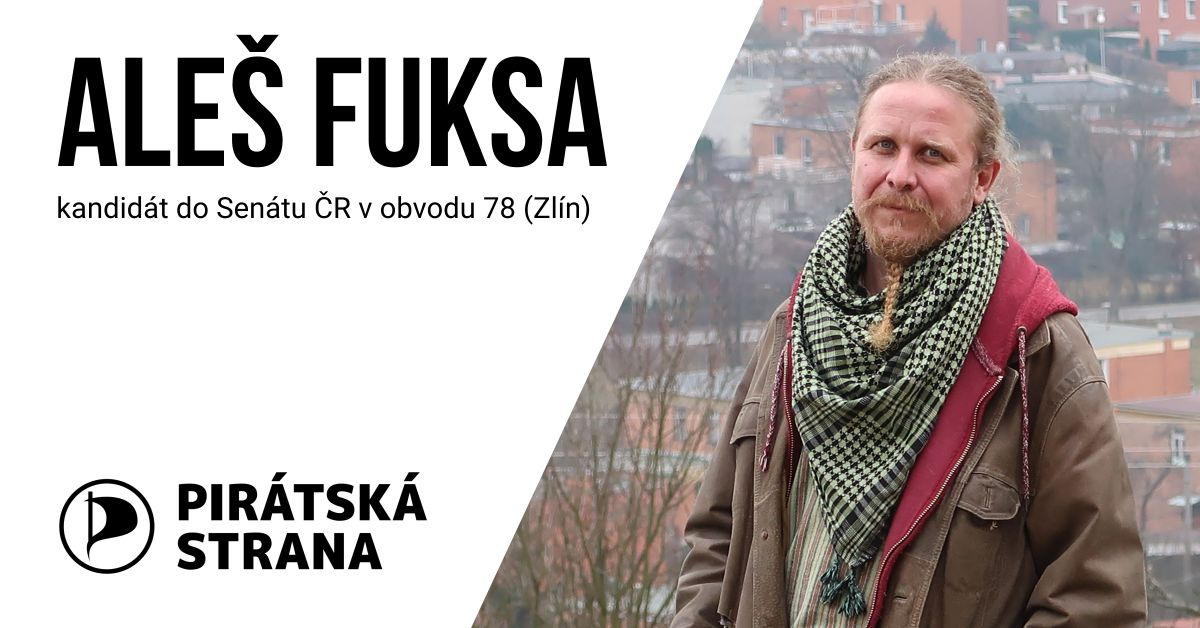
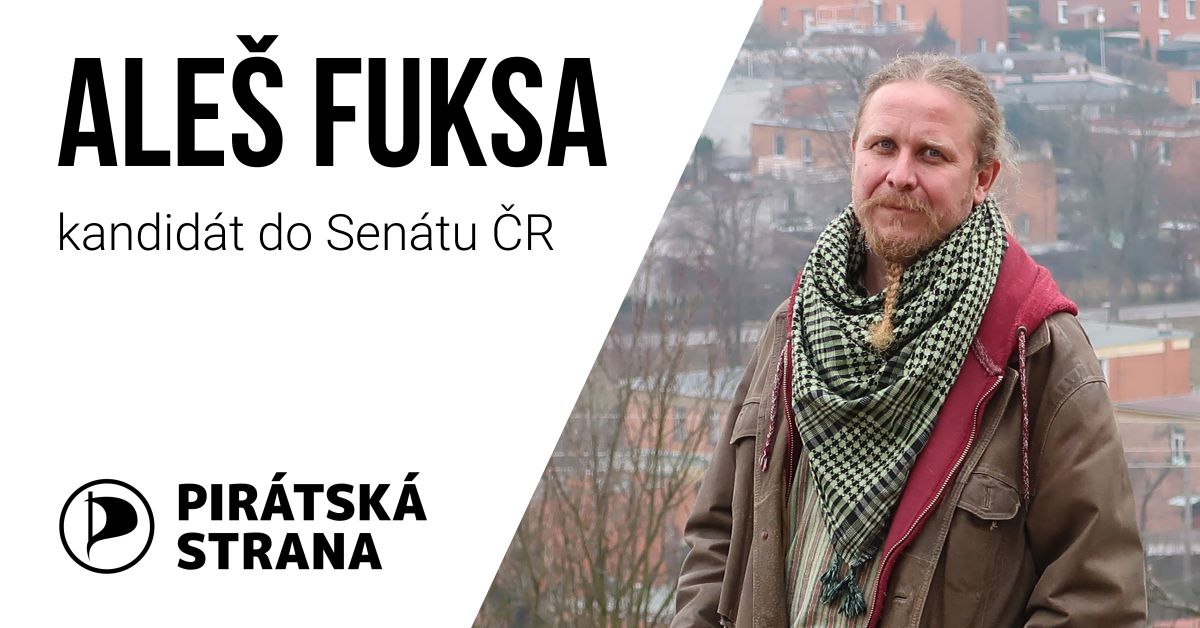
rozhovor

Changed region(s): [[0.0308, 0.3025, 0.4933, 0.4236]]

diff --git a/_posts/2018-03-30-rozhovor-s-kandidatem-alesem-fuksou.md b/_posts/2018-03-30-rozhovor-s-kandidatem-alesem-fuksou.md
@@ -1,21 +1,70 @@
 ---
 layout: blog
 category: CLANKY
-title: 'Piráti ze Zlínského kraje podporují stávku studentů'
-date: 2018-03-14T11:00:00.032Z
-author:
-authorId:
-image: /assets/img/posts/vyjdiven.jpg
-tags: 'akce stávka studenti Zlín'
+title: 'Horní komora je záchrannou brzdou demokracie a zaslouží si důvěru lidí, říká pirátský kandidát do Senátu Aleš Fuksa'
+date: 2018-03-30T11:00:00.032Z
+author: Marek Houser
+authorId: marek.houser
+image: /assets/img/posts/AFbanner.jpg
+tags: 'Senát Senát-78 Zlín rozhovor'
 ---
+Uspěl v pirátských primárkách v konkurenci sedmi konkurentů, 29. března podal oficiální přihlášku a po Velikonocích jemu a Pirátům oficiálně začíná kampaň před senátními volbami ve zlínském 78. obvodu. Novinář Aleš Fuksa se s Piráty v zádech v regionu "popere" o místo, které v Senátu svou rezignací uvolnil František Čuba. "Zneužil voliče ke svému prospěchu. A neměl jako správný chlap koule na to rezignovat dříve," říká na adresu velkopodnikatele regionální reportér s téměř dvacetiletou praxí. Přečtěte si první rozhovor s naším kandidátem do Senátu...
 
-Ve čtvrtek 15. března proběhne na několika místech po celé ČR studentská protestní akce #VyjdiVen a Piráti ze Zlínského kraje tuto iniciativu mladých plně podporují. Akce proběhne také na několika místech ve Zlínském kraji (oficiální událost najdete [ZDE](https://www.facebook.com/events/158080204911148){:target="_blank"}).
+_Co říkáš na systém primárních voleb, který Piráti pro výběr kandidátů používají?_
+Je to krok vedoucí k větší transparentnosti. Ale hodnotit by jej měli ti, kteří hlasovali. Projít si tříhodinovým otevřeným "grilováním" pro mne bylo novou zkušeností. Jsem zvyklý grilovat, ne být grilován :)
 
-Aktivní společnost vnímáme jako jeden ze základních pilířů demokratické společnosti, která participuje na veřejném dění. Vítáme tuto studentskou aktivitu právě proto, že spolupodílení a spolurozhodování je jedním z dlouhodobých pirátských cílů.
+_Čeho bys chtěl v Senátu dosáhnout?_
+V něm i mimo něj bych rád spojoval lidi, kteří to myslí s naší malou zemičkou dobře. Ne je rozděloval, jak je teď běžným zvykem. Byl bych rád prodlouženou rukou pro ty, kteří ve svém zvoleném zástupci vidí sami sebe, jen s rozšířenými možnostmi. Svým dvěma dcerkám odmalička vštěpuju do hlavy, že existují tři druhy lidí. Ovečky, vlci a ovčáčtí psi. A vždycky jim říkám, že lidi je třeba před vlky chránit, pomáhat jim a ukazovat správnou cestu, i když někdy remcají. A to by měl být i úděl senátora. Senátorství vnímám jako práci.
 
-Cesta k opravdové přímé demokracii začíná právě u vzdělané společnosti, která si sama svou činností nastavuje pravidla. Proto podporujeme snahu studentů, stejně jako odborů nebo neziskovek. Odsuzujeme výpady některých politiků i části společnosti směrem ke studentům nebo již zmíněným neziskovkám. Myslíme si, že původce této „shut up“ situace není třeba znovu jmenovat. Právě v této situaci je potřeba vyslovit podporu studentům a ukázat, že symbolické „nejsme malé děti“ je stejně aktuální i po 29 letech. Stávku podporujeme i proto, že mezi studenty stabilně bodujeme v projektu Člověka v tísni a ve studentských volbách a vidíme, že právě ti, kteří pro nás hlasovali ve "studenstkých" a po té i ve "skutečných" volbách,  mají nezanedbatelný podíl na tom, že jsme obsadili sněmovnu. Proto vidíme jako přímou odpovědnost vůči studentskému stavu podpořit aktivitu a apelovat i na ostaní.
+Mezi lidmi bych rád dosáhl zvýšení důvěry v samotnou horní komoru. Aby oni sami pochopili, jakou má Senát v ruce moc. Zatím ji má, alespoň co do názoru řady lidí, moc malou, ale je to proto, že není mediálně příliš vidět. Když se dostanu na post senátora, budou lidé kolem mne (třeba na sociálních sítích) vědět každý den, co ta práce obnáší. A nejen na půdě Senátu, ale hlavně ve zlínské kanceláři. Kde bych se chtěl setkávat s lidmi a být pro ně "obvodním ombudsmanem". Sloužit lidem, kteří mohou přicházet se zajímavými podněty a pak se rozhodnout a pokusit se je přenést jakoukoliv možnou cestou do praxe.
+Jinak nečekám, že během chvilky ohromím v případě zvolení vybrané senátní výbory nebo pak senátory obecně svými návrhy na změny předkládaných zákonů. Nicméně stát se to může. To už jsou pak věci týkající se diskuse a selského rozumu, který někdy používají v dobré víře i předsedové justičních senátů v procesech, kde jest omezené množství důkazů.
 
-Musíme dodat svou nelibost k tvrzení, že se studenti snaží zpochybnit výsledky voleb. Právě toto vidíme jako jeden z prvních kroků, které vedou k postupné demontáži naší demokracie a svobod s ní spojených. Chceme tedy studenty ujistit o tom, že v jejich aktivitě jsme na stejné lodi. Nenechme se uchlácholit, uspat či snad vystrašit. Za vyjádření občanských postojů na nás nikdo nemůže „kleknout“. Ovšem právě tato jistota je křehká a zaslouží si naši obranu a péči.
-Vyzýváme tedy všechny sympatizanty k tomu, aby akci #VyjdiVen podpořili svou přímou účastí či třeba jen diskuzí ve svém okolí.
+_Když jsme u té chvilky... Myslíš, že mandát na dva roky má smysl?_
+Má smysl pro ten pocit, že člověk může spustit revoltu a být součástí té změny, která bude, doufám, znamenat odklon od směřování dvojice Miloš Zeman + Andrej Babiš a přinejmenším udržení současného stavu věci především v zákonech týkajících se svobody slova a svobodného přístupu k informacím. Důležitá bude stálá a hlavně výrazná podpora nezávislosti médií, především pak veřejnoprávních. Jakožto oblastí, které jsou mi profesně nejbližší.
+
+_Jak může práce v Senátu ovlivnit život lidí ve zlíně a okolí?_
+Proč někoho ovlivňovat? Když je mnohdy lepší samotným lidem naslouchat a případně pomoci. Skupině lidí i jednotlivcům, ale i spolkům atd. například. Referováním v Senátu i formou nezištné pomoci zastáním se některých lidí či skupin na úřadech, institucích a podobně. Příklad za všechny? Piráti měli připravenou v Kroměříži pěknou akcičku s důchodci a dětmi z mateřských škol, ale nakonec skončila tato akce nezdarem. Můžete se jich zeptat, proč. A z pozice senátora bych mohl tyto aktivity viditelněji a aktivněji podporovat. Například jednáním se zástupci města.
+
+_Jak vnímáš instituci Senátu a jak myslíš, že jej vnímá veřejnost?_
+Jak jsem již jinde řekl, je to záchranná brzda demokracie a uvědomuje si to stále více lidí. Nynější doplňovací květnové volby na Zlínsku mohou být navíc do velké míry lakmusovým papírkem nálady samotných voličů. A pokud vyjdou ve prospěch Pirátů a mne jako nezávislého kandidáta, mohou se stát počáteční přívalovou vlnou pro podzimní senátní volby v jedné třetině horní komory. A tím spustit revoltu za demokracii v Senátu. Tyto květnové v jediném zlínském 78. obvodu tak mohou pro podzimní hlavní mnoho napovědět. Buď lidé touží po změně, nebo je jim to jedno a zvolí kandidáta z tradičních stran.
+
+_Vítěz voleb nahradí Františka Čubu, který se ve funkci moc nepředvedl a nakonec pod tlakem rezignoval. Jak hodnotíš jeho stopu v senátu?_
+To, jakou stopu zanechal, vidí každý. Naposledy se účastnil jednání Senátu 24. srpna 2016. Pak už chyběl z různých zdravotních důvodů. Nebýval často k zastižení ani ve své senátorské kanceláři ve Zlíně, kde jsem ho i já v rámci výkonu své práce několikrát hledal. Co si o tom myslet... Že je to špatně. Zneužil voliče ke svému prospěchu. A neměl jako správný chlap koule na to rezignovat dříve. Přeji tomuto starému pánovi klid a pohodu při důchodu. A přál jsem mu ho už před senátními volbami v roce 2014, které vyhrál.
+
+_Zmínil jsi svou práci. Jsi současně kandidátem na politickou funkci a novinářem. Neovlivní tě to?_
+Já doufám, že ne. Ale i s tímto rizikem do toho jdu.
+
+_Ale kritici se určitě najdou. Jaké budou záruky tvé nestrannosti?_
+Záruky nestrannosti jsou v objektivitě textů. Politické komentáře nepíši. Jsem novinářem nezávislého deníku. Je to má práce, která mne živí. Takže pracovat budu do voleb dál. Samozřejmě se budu snažit vyvarovat psaní o Pirátech, ale to se rozumí samo sebou. Nad rámec se do voleb vyhnu psaní textů s politickou či komunální tematikou.
+
+_Jaký máš vztah ke Zlínsku?_
+Jsem Zlíňák a jako novinář jsem na východě Moravy už devatenáct let denně v terénu. A předtím coby hajný :) Mám rád tento kraj, a proto jsem ho nikdy neopustil.
+
+_Očekáváš podporu od nějakých zdejších osobností?_
+Když mrknete na můj facebook, najdete tam nespočet osobností, které své sympatie ohledně mého rozhodnutí vyjádřily svým "lajkem". A jestli jste Zlíňáci, mnohé z nich znáte. Ti lidé si o mém rozhodnutí budou povídat s dalšími. Všichni máme společný mikrosvět, který přirozenou cestou rozšiřujeme. Pomocnou ruku mi po ohlášení mé kandidatury nabídl například organizátor festivalu demokracie Zlínské jaro Tomáš Pasterný, bývalá senátorka Jana Juřenčáková a mnozí další. Otevřeně mne podporuje vedení zlínského odborového svazu gumárenského giganta firmy Mitas.
+
+_Záludná otázka: Které pirátské návrhy bys v Senátu okamžitě podpořil a u kterých bys váhal?_
+Návrhy týkající se udržení současného stavu svobody slova, návrhy týkající se vyšší transparentnosti a zvýšení otevřenosti úřadů či státních firem vůči lidem. Digitalizace a s tím spojená zhoršená možnost korupce. Ty bych jistě podpořil. Ináč teď nevím, nad čím konkrétně bych váhal. Pokud bych ale váhal, je věcí diskuse, zda mne přesvědčí k přiklonění se k dané variantě. Nebráním se ničemu, ale taky nejsem automatický přitakávač. Svůj názor řeknu, i kdyby se to někomu při diskusi nelíbilo. Jak se pak zachovám, je věc druhá. Otázka přímé demokracie například může vadit spoustě lidem, ale je to zase věcí osvěty. Vše postupně, je třeba lidi vychovávat.
+
+_Očekáváš podporu napříč všemi společenskými vrstvami a velikostmi obcí, nebo se chceš zaměřit na konkrétní cílovou skupinu?_
+Očekávám podporu i mezi lidmi, kteří normálně volí jiné než Piráty.
+
+_Do politiky se vrháš v podstatě bez zkušeností z jiných, například komunálních, politických sfér. Vidíš v tom nějaké výhody či nevýhody?_
+Vidím v tom výhodu. Ale ve skutečnosti je to tak, že s politiky (od starostů až po vrcholné politiky) jsem byl devatenáct let víceméně stále v kontaktu. Mám nadhled. I teď při své kandidatuře. Vše dopadne, jak má. Nehodlám tímto zahájit bezhlavou politickou dráhu, a k tomu s klapkami na očích. Jen chci svou kandidaturou jasně říct, že už je tu něco špatně a je třeba se začít bít za svobodu slova a podporu médií i jiným způsobem. Postavit se za občany i novináře a za své řemeslo na politické půdě. Žurnalistiku i horní komoru Parlamentu ČR považuji za jedny z hlavních pilířů demokracie. Doba je zlá, v současnosti jsou tyto  pilíře značně podkopávány v základech, a to nejvyššími politickými kádry.
+
+_Na "grilování" před primárními volbami Pirátů jsi uvedl, že hrozí "zrušení Senátu" a zmiňoval jsi k tomu 3 důvody. Můžeš je zopakovat?_
+Změnou ústavy, což je snad nereálné. Vyhladověním ve chvíli, kdy poslanecká sněmovna neschválí rozpočet Senátu. Či schválením doživotní renty senátorům poslaneckou sněmovnou s tím, že by s tím souvisela nepsaná dohoda se senátory, kteří by sami zdvihli ruku pro rozpuštění horní komory. Což už ze svých úst premiér v demisi Andrej Babiš v minulosti dostal...
+
+_Jak nahlíží na tvou kandidaturu tvá rodina?_
+Respektuje to.
+
+_Kandiduješ jako nezávislý. Uvažuješ se k České pirátské straně v budoucnu přidat jako její člen?_
+Ne. Vysvětlovat proč, zřejmě s ohledem na svou profesi, nemusím.
+
+_Máš nějaké plány v případě neúspěchu, nebo na to teď nemyslíš? Budeš se případně s Piráty dále ucházet o senátora v obvodech 77 a 80?_
+Nebudu se dál ucházet o post senátora v dalších dvou obvodech. V každém z nich se zcela jistě najde výrazná osobnost, která bude chtít dosáhnout změny a bude blízká názorům Pirátů. Miluju novinářskou branži a budu se jí chtít dál věnovat naplno.
+
+_I v případě zvolení bys chtěl zůstat součástí redakce a vykonávat funkci novináře?_
+Nepředbíhejme. Nevím ale, do jaké míry by to šlo či nešlo zkloubit. Obě práce mají ve vztahu k obyčejným lidem hodně společného.
 
 - - -
